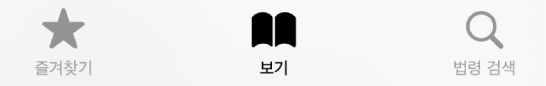
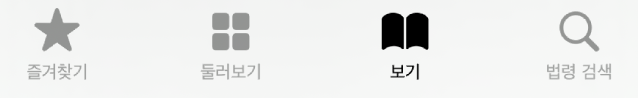
added

diff --git a/posts/beoppering-ko/index.html b/posts/beoppering-ko/index.html
@@ -8,9 +8,9 @@
 <title>법퍼링 법전 도움말 | Gourmet Series</title>
 <meta name="keywords" content="">
 <meta name="description" content="이 문서는 법퍼링 법전의 사용지원을 위한 문서입니다.
-면책 법퍼링 법전(이하 &ldquo;당해 앱&quot;이라고 합니다)은 국가법령정보센터 (https://law.go.kr) 이용의 편의를 제공하기 위해 무료로 제공되는 앱으로 내용의 오류, 또는 처리 과정에서의 오류가 있을 수 있습니다.
-당해 앱은 위 오류 등을 포함하여 법령 정보에 관한 내용 및 이 앱을 사용하며 발생하는 문제에 관하여 어떤 책임도 지지 않습니다.
-목차 사용 안내 가. 하단 탭 버튼 나. 보기 탭 다. 검색 탭 연락처 외부 라이브러리 및 라이센스 1.">
+면책 법퍼링 법전(이하 &ldquo;당해 앱&ldquo;이라고 합니다)은 국가법령정보센터 (https://law.go.kr) 이용의 편의를 제공하기 위해 무료로 제공되는 앱으로 내용의 오류, 또는 처리 과정에서의 오류가 존재할 수 있습니다.
+⚠ 당해 앱은 위 오류 등을 포함하여 법령 정보에 관한 내용 및 이 앱을 사용하며 발생하는 문제에 관하여 어떤 책임도 지지 않습니다. ⇒ 이 내용은 [즐겨찾기] 탭의 (?) 아이콘을 클릭하여 다시 볼 수 있습니다
+목차 사용 안내 가. 하단 탭 버튼 나.">
 <meta name="author" content="">
 <link rel="canonical" href="http://gourmet-series.github.io/posts/beoppering-ko/">
 <link crossorigin="anonymous" href="/assets/css/stylesheet.bccfefac377bc340f06c260aed1bddf49a4354816d7c570d6aac75a997986c95.css" integrity="sha256-vM/vrDd7w0DwbCYK7Rvd9JpDVIFtfFcNaqx1qZeYbJU=" rel="preload stylesheet" as="style">
@@ -61,9 +61,9 @@
     </style>
 </noscript><meta property="og:title" content="법퍼링 법전 도움말" />
 <meta property="og:description" content="이 문서는 법퍼링 법전의 사용지원을 위한 문서입니다.
-면책 법퍼링 법전(이하 &ldquo;당해 앱&quot;이라고 합니다)은 국가법령정보센터 (https://law.go.kr) 이용의 편의를 제공하기 위해 무료로 제공되는 앱으로 내용의 오류, 또는 처리 과정에서의 오류가 있을 수 있습니다.
-당해 앱은 위 오류 등을 포함하여 법령 정보에 관한 내용 및 이 앱을 사용하며 발생하는 문제에 관하여 어떤 책임도 지지 않습니다.
-목차 사용 안내 가. 하단 탭 버튼 나. 보기 탭 다. 검색 탭 연락처 외부 라이브러리 및 라이센스 1." />
+면책 법퍼링 법전(이하 &ldquo;당해 앱&ldquo;이라고 합니다)은 국가법령정보센터 (https://law.go.kr) 이용의 편의를 제공하기 위해 무료로 제공되는 앱으로 내용의 오류, 또는 처리 과정에서의 오류가 존재할 수 있습니다.
+⚠ 당해 앱은 위 오류 등을 포함하여 법령 정보에 관한 내용 및 이 앱을 사용하며 발생하는 문제에 관하여 어떤 책임도 지지 않습니다. ⇒ 이 내용은 [즐겨찾기] 탭의 (?) 아이콘을 클릭하여 다시 볼 수 있습니다
+목차 사용 안내 가. 하단 탭 버튼 나." />
 <meta property="og:type" content="article" />
 <meta property="og:url" content="http://gourmet-series.github.io/posts/beoppering-ko/" /><meta property="article:section" content="posts" />
 <meta property="article:published_time" content="2023-03-04T04:27:26+09:00" />
@@ -72,9 +72,9 @@
 <meta name="twitter:card" content="summary"/>
 <meta name="twitter:title" content="법퍼링 법전 도움말"/>
 <meta name="twitter:description" content="이 문서는 법퍼링 법전의 사용지원을 위한 문서입니다.
-면책 법퍼링 법전(이하 &ldquo;당해 앱&quot;이라고 합니다)은 국가법령정보센터 (https://law.go.kr) 이용의 편의를 제공하기 위해 무료로 제공되는 앱으로 내용의 오류, 또는 처리 과정에서의 오류가 있을 수 있습니다.
-당해 앱은 위 오류 등을 포함하여 법령 정보에 관한 내용 및 이 앱을 사용하며 발생하는 문제에 관하여 어떤 책임도 지지 않습니다.
-목차 사용 안내 가. 하단 탭 버튼 나. 보기 탭 다. 검색 탭 연락처 외부 라이브러리 및 라이센스 1."/>
+면책 법퍼링 법전(이하 &ldquo;당해 앱&ldquo;이라고 합니다)은 국가법령정보센터 (https://law.go.kr) 이용의 편의를 제공하기 위해 무료로 제공되는 앱으로 내용의 오류, 또는 처리 과정에서의 오류가 존재할 수 있습니다.
+⚠ 당해 앱은 위 오류 등을 포함하여 법령 정보에 관한 내용 및 이 앱을 사용하며 발생하는 문제에 관하여 어떤 책임도 지지 않습니다. ⇒ 이 내용은 [즐겨찾기] 탭의 (?) 아이콘을 클릭하여 다시 볼 수 있습니다
+목차 사용 안내 가. 하단 탭 버튼 나."/>
 
 
 <script type="application/ld+json">
@@ -103,12 +103,12 @@
   "@type": "BlogPosting",
   "headline": "법퍼링 법전 도움말",
   "name": "법퍼링 법전 도움말",
-  "description": "이 문서는 법퍼링 법전의 사용지원을 위한 문서입니다.\n면책 법퍼링 법전(이하 \u0026ldquo;당해 앱\u0026quot;이라고 합니다)은 국가법령정보센터 (https://law.go.kr) 이용의 편의를 제공하기 위해 무료로 제공되는 앱으로 내용의 오류, 또는 처리 과정에서의 오류가 있을 수 있습니다.\n당해 앱은 위 오류 등을 포함하여 법령 정보에 관한 내용 및 이 앱을 사용하며 발생하는 문제에 관하여 어떤 책임도 지지 않습니다.\n목차 사용 안내 가. 하단 탭 버튼 나. 보기 탭 다. 검색 탭 연락처 외부 라이브러리 및 라이센스 1.",
+  "description": "이 문서는 법퍼링 법전의 사용지원을 위한 문서입니다.\n면책 법퍼링 법전(이하 \u0026ldquo;당해 앱\u0026ldquo;이라고 합니다)은 국가법령정보센터 (https://law.go.kr) 이용의 편의를 제공하기 위해 무료로 제공되는 앱으로 내용의 오류, 또는 처리 과정에서의 오류가 존재할 수 있습니다.\n⚠ 당해 앱은 위 오류 등을 포함하여 법령 정보에 관한 내용 및 이 앱을 사용하며 발생하는 문제에 관하여 어떤 책임도 지지 않습니다. ⇒ 이 내용은 [즐겨찾기] 탭의 (?) 아이콘을 클릭하여 다시 볼 수 있습니다\n목차 사용 안내 가. 하단 탭 버튼 나.",
   "keywords": [
     
   ],
-  "articleBody": " 이 문서는 법퍼링 법전의 사용지원을 위한 문서입니다.\n면책 법퍼링 법전(이하 “당해 앱\"이라고 합니다)은 국가법령정보센터 (https://law.go.kr) 이용의 편의를 제공하기 위해 무료로 제공되는 앱으로 내용의 오류, 또는 처리 과정에서의 오류가 있을 수 있습니다.\n당해 앱은 위 오류 등을 포함하여 법령 정보에 관한 내용 및 이 앱을 사용하며 발생하는 문제에 관하여 어떤 책임도 지지 않습니다.\n목차 사용 안내 가. 하단 탭 버튼 나. 보기 탭 다. 검색 탭 연락처 외부 라이브러리 및 라이센스 1. 사용 안내 가. 하단 탭 버튼 당해 앱의 탭은 즐겨찾기, 보기, 법령검색으로 구성되어 있습니다. 보기 탭에서 법령을 열람할 수 있고, 법령 검색에서 법령을 검색할 수 있습니다. 즐겨찾기에서는 보기탭에서 즐겨찾기에 추가한 법령 또는 조문을 조회할 수 있습니다.\n나. 보기 탭 버튼은 법령을 새로 불러옵니다.\n상단의 즐겨찾기 버튼은 법령 전체를 즐겨찾기에 등록하고, 조문 제목 앞의 즐겨찾기 버튼은 해당 조문을 즐겨찾기에 등록합니다.\n조문의 복사하기 버튼은 해당 조문의 전체 내용을 클립보드에 복사하는 버튼입니다. 개별 항목(가령 “①”)을 더블탭할 시에는 해당 항목의 내용만이 복사됩니다.\n법령의 개정이 있는 경우에는 내용을 자동으로 불러옵니다.\n검은 바탕으로 표시된 참조조문을 탭할 시에는, 하단에 연한 회색 상자가 나타나며 해당 참조조문이 표시됩니다. 조문 내에서의 밑줄은 괄호 내의 정의조항을 알아보기 쉽게 표시한 것입니다. 다. 검색 탭 검색 탭 상단의 입력창을 통해 현행 법령을 검색할 수 있습니다\n같은 계열의 법령(가령, 난민법 - 난민법 시행령 …)은 같은 고유색깔로 표시됩니다.\n법령은 모서리가 둥근 사각형, 나머지는 원형으로 표시됩니다.\n검색 내용의 날짜는 시행일입니다.\n공식적인 약칭이 있는 경우 함께 표시됩니다.\n라. 즐겨찾기 탭 상단의 항목은 법령에 대한 즐겨찾기를, 하단의 항목은 조문에 대한 즐겨찾기를 나타냅니다. 2. 연락처 gourmet.series@icloud.com\n3. 외부라이브러리 및 라이센스 작명 도움: MIJI\nSQLite.swift Copyright [2014-2015] Stephen Celis. [🔗] (하단 Sqlite.swift 라이센스 참조)\nSwiftSoup Copyright [2016] Nabil Chatbi. [🔗] (하단 SwiftSoup 라이센스 참조)\nSqlite.swift 라이센스 (The MIT License) Copyright (c) 2014-2015 Stephen Celis () Permission is hereby granted, free of charge, to any person obtaining a copy of this software and associated documentation files (the \"Software\"), to deal in the Software without restriction, including without limitation the rights to use, copy, modify, merge, publish, distribute, sublicense, and/or sell copies of the Software, and to permit persons to whom the Software is furnished to do so, subject to the following conditions: The above copyright notice and this permission notice shall be included in all copies or substantial portions of the Software. THE SOFTWARE IS PROVIDED \"AS IS\", WITHOUT WARRANTY OF ANY KIND, EXPRESS OR IMPLIED, INCLUDING BUT NOT LIMITED TO THE WARRANTIES OF MERCHANTABILITY, FITNESS FOR A PARTICULAR PURPOSE AND NONINFRINGEMENT. IN NO EVENT SHALL THE AUTHORS OR COPYRIGHT HOLDERS BE LIABLE FOR ANY CLAIM, DAMAGES OR OTHER LIABILITY, WHETHER IN AN ACTION OF CONTRACT, TORT OR OTHERWISE, ARISING FROM, OUT OF OR IN CONNECTION WITH THE SOFTWARE OR THE USE OR OTHER DEALINGS IN THE SOFTWARE. SwiftSoup 라이센스 MIT License Copyright (c) 2016 Nabil Chatbi Permission is hereby granted, free of charge, to any person obtaining a copy of this software and associated documentation files (the \"Software\"), to deal in the Software without restriction, including without limitation the rights to use, copy, modify, merge, publish, distribute, sublicense, and/or sell copies of the Software, and to permit persons to whom the Software is furnished to do so, subject to the following conditions: The above copyright notice and this permission notice shall be included in all copies or substantial portions of the Software. THE SOFTWARE IS PROVIDED \"AS IS\", WITHOUT WARRANTY OF ANY KIND, EXPRESS OR IMPLIED, INCLUDING BUT NOT LIMITED TO THE WARRANTIES OF MERCHANTABILITY, FITNESS FOR A PARTICULAR PURPOSE AND NONINFRINGEMENT. IN NO EVENT SHALL THE AUTHORS OR COPYRIGHT HOLDERS BE LIABLE FOR ANY CLAIM, DAMAGES OR OTHER LIABILITY, WHETHER IN AN ACTION OF CONTRACT, TORT OR OTHERWISE, ARISING FROM, OUT OF OR IN CONNECTION WITH THE SOFTWARE OR THE USE OR OTHER DEALINGS IN THE SOFTWARE. ",
-  "wordCount" : "609",
+  "articleBody": " 이 문서는 법퍼링 법전의 사용지원을 위한 문서입니다.\n면책 법퍼링 법전(이하 “당해 앱“이라고 합니다)은 국가법령정보센터 (https://law.go.kr) 이용의 편의를 제공하기 위해 무료로 제공되는 앱으로 내용의 오류, 또는 처리 과정에서의 오류가 존재할 수 있습니다.\n⚠ 당해 앱은 위 오류 등을 포함하여 법령 정보에 관한 내용 및 이 앱을 사용하며 발생하는 문제에 관하여 어떤 책임도 지지 않습니다. ⇒ 이 내용은 [즐겨찾기] 탭의 (?) 아이콘을 클릭하여 다시 볼 수 있습니다\n목차 사용 안내 가. 하단 탭 버튼 나. 보기 탭 다. 법령 검색 탭 라. 즐겨찾기 탭 마. 둘러보기 탭 바. 글자 크기 키우기 연락처 외부 라이브러리 및 라이센스 1. 사용 안내 가. 하단 탭 버튼 당해 앱의 탭은 즐겨찾기, 둘러 보기, 보기, 법령 검색으로 구성되어 있습니다. 보기 탭에서는 법령 검색 등에서 찾은 법령을 열람할 수 있고, 즐겨찾기에서는 보기 탭에서 즐겨찾기에 추가한 법령 또는 조문을 조회할 수 있습니다.\n둘러보기에서는 일반적으로 많이 사용되는 법령을 빠르고 쉽게 찾을 수 있도록 제시하였습니다.\n나. 보기 탭 상단의 즐겨찾기 버튼은 법령 전체를 즐겨찾기에 등록하고, 조문 제목 앞의 즐겨찾기 버튼은 해당 조문을 즐겨찾기에 등록합니다.\n상단의 목차보기 버튼은 아래와 같이 법령의 목차(편제 등)를 보여줍니다.\n판례보기 버튼은 해당 조문과 연관된 판례를 새 창에서 보여줍니다.\n조문의 복사하기 버튼은 해당 조문의 전체 내용을 클립보드에 복사하는 버튼입니다. 한편, 개별 항목(가령 “①”)을 더블탭할 시에는 해당 항목의 내용만이 복사됩니다.\n법령의 개정이 있는 경우에는 내용을 자동으로 불러옵니다.\n법령을 강제로 새로고침하기 위해서는 (Safari에서 새로고침을 하는 것과 마찬가지로), 화면을 돌아가는 회색 원이 나올 때까지 아래로 화면을 잡아당깁니다(아래 그림 참고).\n회색 바탕으로 표시된 참조조문을 탭할 시에는, 하단에 연한 회색 상자가 나타나며 해당 참조조문이 표시됩니다.\n참조조문 상자에서 표시된 첫 번째 복사하기 버튼()은 해당 참조조문만을 복사하고, 두 번째 복사하기 버튼()은 해당 참조조문에 이르기까지 경로에 있는 모든 조문들을 복사합니다.\n조문 내에서의 밑줄은 괄호 내의 정의조항을 알아보기 쉽게 표시한 것입니다. 다. 검색 탭 검색 탭 상단의 입력창을 통해 현행 법령을 검색할 수 있습니다\n같은 계열의 법령(가령, 난민법 - 난민법 시행령 …)은 같은 고유색깔로 표시됩니다.\n법령은 모서리가 둥근 사각형, 나머지는 원형으로 표시됩니다.\n검색 내용의 날짜는 시행일입니다.\n공식적인 약칭이 있는 경우 함께 표시됩니다.\n라. 즐겨찾기 탭 상단의 항목은 법령에 대한 즐겨찾기를, 하단의 항목은 조문에 대한 즐겨찾기를 나타냅니다.\n조문 즐겨찾기를 삭제하기 위해서는 조문 앞의 책갈피 기호를 탭하면 삭제됩니다.\n법령을 잠시 누르고 있는 경우, 공유하기 및 지우기 실행 버튼이 나타납니다. 조문 항목을 잠시 누르고 있는 경우 지우기 버튼이 나타나고, 세부 내용을 볼 수 있습니다. 마. 둘러보기 탭 각종 유용한 법령을 모아둔 탭입니다. 업데이트에 따라 내용이 달라질 수 있습니다. 추가하고 싶으신 법령이 있다면 언제든지 아래 연락처로 연락주세요! 바. 글자크기 키우기 앱의 글자 크기를 키우고 싶으시다면(iOS, ipadOS 한정) 아래 설정을 진행하시면 됩니다. [1] 홈 화면으로 나가서, 설정 앱의 손쉬운 사용에 들어갑니다.\n[2] 일반 아래 앱별 설정을 찾아 들어갑니다.\n[3] 앱별 설정에서 앱 추가를 선택한 뒤, 법퍼링 법전을 선택합니다.\n[4] 법퍼링 법전 항목을 선택 후 나타나는 창에서, 더 큰 텍스트를 선택한 뒤, 아래의 슬라이드를 보기 좋은 크기로 드래그합니다(끝).\n2. 연락처 gourmet.series@icloud.com\n3. 외부라이브러리 및 라이센스 작명 도움: MIJI\nSQLite.swift Copyright [2014-2015] Stephen Celis. [🔗] (하단 Sqlite.swift 라이센스 참조)\nSwiftSoup Copyright [2016] Nabil Chatbi. [🔗] (하단 SwiftSoup 라이센스 참조)\nSqlite.swift 라이센스 (The MIT License) Copyright (c) 2014-2015 Stephen Celis () Permission is hereby granted, free of charge, to any person obtaining a copy of this software and associated documentation files (the \"Software\"), to deal in the Software without restriction, including without limitation the rights to use, copy, modify, merge, publish, distribute, sublicense, and/or sell copies of the Software, and to permit persons to whom the Software is furnished to do so, subject to the following conditions: The above copyright notice and this permission notice shall be included in all copies or substantial portions of the Software. THE SOFTWARE IS PROVIDED \"AS IS\", WITHOUT WARRANTY OF ANY KIND, EXPRESS OR IMPLIED, INCLUDING BUT NOT LIMITED TO THE WARRANTIES OF MERCHANTABILITY, FITNESS FOR A PARTICULAR PURPOSE AND NONINFRINGEMENT. IN NO EVENT SHALL THE AUTHORS OR COPYRIGHT HOLDERS BE LIABLE FOR ANY CLAIM, DAMAGES OR OTHER LIABILITY, WHETHER IN AN ACTION OF CONTRACT, TORT OR OTHERWISE, ARISING FROM, OUT OF OR IN CONNECTION WITH THE SOFTWARE OR THE USE OR OTHER DEALINGS IN THE SOFTWARE. SwiftSoup 라이센스 MIT License Copyright (c) 2016 Nabil Chatbi Permission is hereby granted, free of charge, to any person obtaining a copy of this software and associated documentation files (the \"Software\"), to deal in the Software without restriction, including without limitation the rights to use, copy, modify, merge, publish, distribute, sublicense, and/or sell copies of the Software, and to permit persons to whom the Software is furnished to do so, subject to the following conditions: The above copyright notice and this permission notice shall be included in all copies or substantial portions of the Software. THE SOFTWARE IS PROVIDED \"AS IS\", WITHOUT WARRANTY OF ANY KIND, EXPRESS OR IMPLIED, INCLUDING BUT NOT LIMITED TO THE WARRANTIES OF MERCHANTABILITY, FITNESS FOR A PARTICULAR PURPOSE AND NONINFRINGEMENT. IN NO EVENT SHALL THE AUTHORS OR COPYRIGHT HOLDERS BE LIABLE FOR ANY CLAIM, DAMAGES OR OTHER LIABILITY, WHETHER IN AN ACTION OF CONTRACT, TORT OR OTHERWISE, ARISING FROM, OUT OF OR IN CONNECTION WITH THE SOFTWARE OR THE USE OR OTHER DEALINGS IN THE SOFTWARE. ",
+  "wordCount" : "819",
   "inLanguage": "en",
   "datePublished": "2023-03-04T04:27:26+09:00",
   "dateModified": "2023-03-04T04:27:26+09:00",
@@ -184,7 +184,29 @@
 </div>
   </header> 
   <div class="post-content"><style type="text/css">
-/*   table {
+*
+{
+    font-family: sans-serif, system-ui, -apple-system, BlinkMacSystemFont;
+    font-weight: normal;
+    word-break: keep-all;
+    word-wrap: break-word;
+}
+
+html {
+    font-size: 9pt;
+    margin-left: 5%;
+    margin-right: 5%;
+}
+
+body {
+    background-color: clear !important;
+    color: black;
+    font-size: 1rem;
+    padding: 0 1rem 0 1rem;
+    line-height: 1.2rem;
+}
+
+table {
     display: table;
     border: 1px #bababa solid;
     padding: 0.3em;
@@ -209,6 +231,21 @@ td {
 tr:last-child td {
     border: 0;
 }
+
+
+img {
+    width: 100%;
+    border-radius: 1em;
+    box-shadow: 0 7px 10px 2px #bababa;
+}
+
+img.icon {
+    box-shadow: 0 0 0 0 !important;
+    width: 1.5em;
+    height: 1.5em;
+    vertical-align: middle;
+}
+
 td img {
     width: 13em;
     box-shadow: 0 0 0 0 !important;
@@ -227,31 +264,8 @@ td pre code {
     word-wrap: normal !important;
 }
 
-*/
-
-td img {
-    width: 13em;
-    box-shadow: 0 0 0 0 !important;
-}
-
-
-img {
-    width: 100%;
-    border-radius: 1em;
-    box-shadow: 0 7px 10px 2px #bababa;
-}
-
-img.icon {
-    display: inline;
-    box-shadow: 0 0 0 0 !important;
-    width: 1.5em;
-    height: 1.5em;
-    vertical-align: middle;
-}
-
-
 h1 {
-    margin-top: 3.5em;
+    margin-top: 0.5em;
 }
 
 h1, h2, h3, h4, h5 {
@@ -294,7 +308,6 @@ strong {
 
 .outline u {
     text-decoration: underline !important;
-    border-bottom: 0 !important;
     font-weight: inherit;
 }
 
@@ -325,14 +338,11 @@ b {
 b u
 {
     font-weight: bold !important;
-    border-bottom: 3px black double !important;
+    border-bottom: 3px black solid !important;
 }
 
 u {
-    text-decoration: none;
-    border-bottom: 3px #808080 double !important;
-    margin-bottom: 0.2em;
-    display: inline-block;
+    text-decoration: underline;
 }
 
 i b {
@@ -368,46 +378,68 @@ pre code {
 </style>
 <p><i>이 문서는 <a href="https://apps.apple.com/app/%EB%B2%95%ED%8D%BC%EB%A7%81-%EB%B2%95%EC%A0%84/id6445958916?platform=iphone">법퍼링 법전</a>의 사용지원을 위한 문서입니다.</i></p>
 <h2 id="h1">면책<a hidden class="anchor" aria-hidden="true" href="#h1">#</a></h2>
-<p><strong class=outline>법퍼링 법전</strong>(이하 &ldquo;당해 앱&quot;이라고 합니다)은 국가법령정보센터 (<a href="https://law.go.kr">https://law.go.kr</a>) 이용의 편의를 제공하기 위해 무료로 제공되는 앱으로 내용의 오류, 또는 처리 과정에서의 오류가 있을 수 있습니다.</p>
-<p><strong>당해 앱은 위 오류 등을 포함하여 법령 정보에 관한 내용 및 이 앱을 사용하며 발생하는 문제에 관하여 어떤 책임도 지지 않습니다.</strong></p>
+<p><strong class=outline>법퍼링 법전</strong>(이하 &ldquo;<b>당해 앱</b>&ldquo;이라고 합니다)은 국가법령정보센터 (<a href="https://law.go.kr">https://law.go.kr</a>) 이용의 편의를 제공하기 위해 무료로 제공되는 앱으로 내용의 오류, 또는 처리 과정에서의 오류가 존재할 수 있습니다.</p>
+<p style="font-weight: bolder; text-decoration: underline;"> ⚠ 당해 앱은 위 오류 등을 포함하여 법령 정보에 관한 내용 및 이 앱을 사용하며 발생하는 문제에 관하여 어떤 책임도 지지 않습니다. </p>
+<p><strong>⇒ 이 내용은 [즐겨찾기] 탭의 (?) 아이콘을 클릭하여 다시 볼 수 있습니다</strong></p>
+<hr>
 <h2 id="목차">목차<a hidden class="anchor" aria-hidden="true" href="#목차">#</a></h2>
 <ol>
 <li><a href="#h2">사용 안내</a>
-가. 하단 탭 버튼
-나. 보기 탭
-다. 검색 탭</li>
+가. <a href="#a1">하단 탭 버튼</a>
+나. <a href="#a2"><strong class=outline>보기</strong> 탭</a>
+다. <a href="#a3"><strong class=outline>법령 검색</strong> 탭</a>
+라. <a href="#a4"><strong class=outline>즐겨찾기</strong> 탭</a>
+마. <a href="#a5"><strong class=outline>둘러보기</strong> 탭</a>
+바. <a href="#a6">글자 크기 키우기</a></li>
 <li><a href="#h3">연락처</a></li>
 <li><a href="#h4">외부 라이브러리 및 라이센스</a></li>
 </ol>
+<hr>
 <h2 id="h2">1. 사용 안내<a hidden class="anchor" aria-hidden="true" href="#h2">#</a></h2>
-<h3 id="가-하단-탭-버튼">가. 하단 탭 버튼<a hidden class="anchor" aria-hidden="true" href="#가-하단-탭-버튼">#</a></h3>
+<h3 id="a1">가. 하단 탭 버튼<a hidden class="anchor" aria-hidden="true" href="#a1">#</a></h3>
 <img src="img1.png" alt="하단 탭의 스크린샷">
-<p>당해 앱의 탭은 <em>즐겨찾기</em>, <em>보기</em>, <em>법령검색</em>으로 구성되어 있습니다. 보기 탭에서 법령을 열람할 수 있고, 법령 검색에서 법령을 검색할 수 있습니다. 즐겨찾기에서는 보기탭에서 즐겨찾기에 추가한 법령 또는 조문을 조회할 수 있습니다.</p>
-<h3 id="나-보기-탭">나. 보기 탭<a hidden class="anchor" aria-hidden="true" href="#나-보기-탭">#</a></h3>
+<p>당해 앱의 탭은 <strong class=outline>즐겨찾기</strong>, <strong class=outline>둘러 보기</strong>, <strong class=outline>보기</strong>, <strong class=outline>법령 검색</strong>으로 구성되어 있습니다. <strong class=outline>보기</strong> 탭에서는 <strong class=outline>법령 검색</strong> 등에서 찾은 법령을 열람할 수 있고, <strong class=outline>즐겨찾기</strong>에서는 <strong class=outline>보기</strong> 탭에서 <strong class=outline>즐겨찾기</strong>에 추가한 법령 또는 조문을 조회할 수 있습니다.</p>
+<p><strong class=outline>둘러보기</strong>에서는 일반적으로 많이 사용되는 법령을 빠르고 쉽게 찾을 수 있도록 제시하였습니다.</p>
+<h3 id="a2">나. 보기 탭<a hidden class="anchor" aria-hidden="true" href="#a2">#</a></h3>
 <img src="img2.png" alt="보기의 스크린샷">
 <ul>
 <li>
-<p><img src="img3.png" class=icon alt="새로고침 버튼"> 버튼은 법령을 새로 불러옵니다.</p>
+<p><img src="img4.png" class=icon alt="즐겨찾기 버튼"> 상단의 즐겨찾기 버튼은 법령 전체를 <strong class=outline>즐겨찾기</strong>에 등록하고, 조문 제목 앞의 즐겨찾기 버튼은 해당 조문을 <strong class=outline>즐겨찾기</strong>에 등록합니다.</p>
 </li>
 <li>
-<p><img src="img4.png" class=icon alt="즐겨찾기 버튼"> 상단의 즐겨찾기 버튼은 법령 전체를 즐겨찾기에 등록하고, 조문 제목 앞의 즐겨찾기 버튼은 해당 조문을 즐겨찾기에 등록합니다.</p>
+<p><img src="img4.1.png" class=icon alt="목차보기 버튼"> 상단의 목차보기 버튼은 아래와 같이 법령의 목차(편제 등)를 보여줍니다.</p>
+</li>
+</ul>
+<img src="img4.2.png" alt="목차보기 창">
+<ul>
+<li>
+<p><img src="img5.3.png" class=icon alt="판례보기 버튼"> 판례보기 버튼은 해당 조문과 연관된 판례를 새 창에서 보여줍니다.</p>
 </li>
 <li>
-<p><img src="img5.png" class=icon alt="복사하기 버튼"> 조문의 복사하기 버튼은 해당 조문의 전체 내용을 클립보드에 복사하는 버튼입니다. <u>개별 항목(가령 &ldquo;①&rdquo;)을 더블탭</u>할 시에는 해당 항목의 내용만이 복사됩니다.</p>
+<p><img src="img5.png" class=icon alt="복사하기 버튼"> 조문의 복사하기 버튼은 해당 조문의 전체 내용을 클립보드에 복사하는 버튼입니다. 한편, <u>개별 항목(가령 &ldquo;①&rdquo;)을 더블탭</u>할 시에는 해당 항목의 내용만이 복사됩니다.</p>
 </li>
 <li>
 <p>법령의 개정이 있는 경우에는 내용을 자동으로 불러옵니다.</p>
 </li>
+<li>
+<p>법령을 <b>강제로</b> 새로고침하기 위해서는 (Safari에서 새로고침을 하는 것과 마찬가지로), 화면을 돌아가는 회색 원이 나올 때까지 아래로 화면을 잡아당깁니다(아래 그림 참고).</p>
+</li>
 </ul>
+<img src="img2.1.png" alt="새로고침 방법">
 <img src="img8.png" alt="조문 보기의 스크린샷">
 <ul>
-<li>검은 바탕으로 표시된 참조조문을 탭할 시에는, 하단에 연한 회색 상자가 나타나며 해당 참조조문이 표시됩니다.</li>
+<li>
+<p>회색 바탕으로 표시된 참조조문을 탭할 시에는, 하단에 연한 회색 상자가 나타나며 해당 참조조문이 표시됩니다.</p>
+</li>
+<li>
+<p>참조조문 상자에서 표시된 첫 번째 복사하기 버튼(<img src="img5.1.png" class=icon alt="복사하기 버튼">)은 해당 참조조문만을 복사하고, 두 번째 복사하기 버튼(<img src="img5.2.png" class=icon alt="복사하기 버튼">)은 <u>해당 참조조문에 이르기까지 경로에 있는 모든 조문들을 복사합니다</u>.</p>
+</li>
 </ul>
 <img src="img9.png" alt="밑줄의 정체">
 <ul>
 <li>조문 내에서의 밑줄은 괄호 내의 정의조항을 알아보기 쉽게 표시한 것입니다.</li>
 </ul>
-<h3 id="다-검색-탭">다. 검색 탭<a hidden class="anchor" aria-hidden="true" href="#다-검색-탭">#</a></h3>
+<h3 id="a3">다. 검색 탭<a hidden class="anchor" aria-hidden="true" href="#a3">#</a></h3>
 <img src="img7.png" alt="검색의 스크린샷">
 <ul>
 <li>
@@ -426,11 +458,44 @@ pre code {
 <p>공식적인 약칭이 있는 경우 함께 표시됩니다.</p>
 </li>
 </ul>
-<h3 id="라-즐겨찾기-탭">라. 즐겨찾기 탭<a hidden class="anchor" aria-hidden="true" href="#라-즐겨찾기-탭">#</a></h3>
+<h3 id="a4">라. 즐겨찾기 탭<a hidden class="anchor" aria-hidden="true" href="#a4">#</a></h3>
 <img src="img10.png" alt="즐겨찾기">
 <ul>
-<li>상단의 항목은 법령에 대한 즐겨찾기를, 하단의 항목은 조문에 대한 즐겨찾기를 나타냅니다.</li>
+<li>
+<p>상단의 항목은 법령에 대한 즐겨찾기를, 하단의 항목은 조문에 대한 즐겨찾기를 나타냅니다.</p>
+</li>
+<li>
+<p>조문 즐겨찾기를 삭제하기 위해서는 조문 앞의 책갈피 기호를 탭하면 삭제됩니다.</p>
+</li>
 </ul>
+<img src="img10.1.png" alt="법령 오래 눌렀을 때">
+<ul>
+<li>법령을 잠시 누르고 있는 경우, 공유하기 및 지우기 실행 버튼이 나타납니다.</li>
+</ul>
+<img src="img10.2.png" alt="조문 오래 눌렀을 때">
+<ul>
+<li>조문 항목을 잠시 누르고 있는 경우 지우기 버튼이 나타나고, 세부 내용을 볼 수 있습니다.</li>
+</ul>
+<h3 id="a5">마. 둘러보기 탭<a hidden class="anchor" aria-hidden="true" href="#a5">#</a></h3>
+<img src="img11.png" alt="둘러보기 탭">
+<ul>
+<li>각종 유용한 법령을 모아둔 탭입니다. 업데이트에 따라 내용이 달라질 수 있습니다. 추가하고 싶으신 법령이 있다면 언제든지 아래 연락처로 연락주세요!</li>
+</ul>
+<h3 id="a6">바. 글자크기 키우기<a hidden class="anchor" aria-hidden="true" href="#a6">#</a></h3>
+<ul>
+<li>앱의 글자 크기를 키우고 싶으시다면(iOS, ipadOS 한정) 아래 설정을 진행하시면 됩니다.</li>
+</ul>
+<p>[1] 홈 화면으로 나가서, <strong class='outline'>설정</strong> 앱의 <strong class='outline'>손쉬운 사용</strong>에 들어갑니다.</p>
+<img src="img12.0.png" alt="설정 앱의 손쉬운 사용 항목 선택">
+<p>[2] <strong class='outline'>일반</strong> 아래 <strong class='outline'>앱별 설정</strong>을 찾아 들어갑니다.</p>
+<img src="img12.1.png" alt="앱별 설정 선택">
+<p>[3] <strong class='outline'>앱별 설정</strong>에서 <strong class='outline'>앱 추가</strong>를 선택한 뒤, <strong>법퍼링 법전</strong>을 선택합니다.</p>
+<img src="img12.2.png" alt="앱 추가 선택">
+<img src="img12.3.png" alt="법퍼링 법전 검색">
+<img src="img12.4.png" alt="선택 완료 화면">
+<p>[4] <strong>법퍼링 법전</strong> 항목을 선택 후 나타나는 창에서, <strong class='outline'>더 큰 텍스트</strong>를 선택한 뒤, 아래의 슬라이드를 보기 좋은 크기로 드래그합니다(끝).</p>
+<img src="img12.5.png" alt="더 큰 텍스트">
+<img src="img12.6.png" alt="크기 조정 슬라이드">
 <h2 id="h3">2. 연락처<a hidden class="anchor" aria-hidden="true" href="#h3">#</a></h2>
 <p><a href="mailto:gourmet.series@icloud.com"><a href="mailto:gourmet.series@icloud.com">gourmet.series@icloud.com</a></a></p>
 <h2 id="h4">3. 외부라이브러리 및 라이센스<a hidden class="anchor" aria-hidden="true" href="#h4">#</a></h2>

diff --git a/index.html b/index.html
@@ -142,6 +142,21 @@ The developer has not embedded any third-party advertisements in the program, so
 
 <article class="post-entry"> 
   <header class="entry-header">
+    <h2>법퍼링 법전 도움말
+    </h2>
+  </header>
+  <div class="entry-content">
+    <p>이 문서는 법퍼링 법전의 사용지원을 위한 문서입니다.
+면책 법퍼링 법전(이하 “당해 앱“이라고 합니다)은 국가법령정보센터 (https://law.go.kr) 이용의 편의를 제공하기 위해 무료로 제공되는 앱으로 내용의 오류, 또는 처리 과정에서의 오류가 존재할 수 있습니다.
+⚠ 당해 앱은 위 오류 등을 포함하여 법령 정보에 관한 내용 및 이 앱을 사용하며 발생하는 문제에 관하여 어떤 책임도 지지 않습니다. ⇒ 이 내용은 [즐겨찾기] 탭의 (?) 아이콘을 클릭하여 다시 볼 수 있습니다
+목차 사용 안내 가. 하단 탭 버튼 나....</p>
+  </div>
+  <footer class="entry-footer"><span title='2023-03-04 04:27:26 +0900 KST'>March 4, 2023</span></footer>
+  <a class="entry-link" aria-label="post link to 법퍼링 법전 도움말" href="http://gourmet-series.github.io/posts/beoppering-ko/"></a>
+</article>
+
+<article class="post-entry"> 
+  <header class="entry-header">
     <h2>Gourmet Tree App Privacy Policy (개인정보 취급방침)
     </h2>
   </header>

diff --git a/posts/index.html b/posts/index.html
@@ -148,6 +148,21 @@ The developer has not embedded any third-party advertisements in the program, so
 
 <article class="post-entry"> 
   <header class="entry-header">
+    <h2>법퍼링 법전 도움말
+    </h2>
+  </header>
+  <div class="entry-content">
+    <p>이 문서는 법퍼링 법전의 사용지원을 위한 문서입니다.
+면책 법퍼링 법전(이하 “당해 앱“이라고 합니다)은 국가법령정보센터 (https://law.go.kr) 이용의 편의를 제공하기 위해 무료로 제공되는 앱으로 내용의 오류, 또는 처리 과정에서의 오류가 존재할 수 있습니다.
+⚠ 당해 앱은 위 오류 등을 포함하여 법령 정보에 관한 내용 및 이 앱을 사용하며 발생하는 문제에 관하여 어떤 책임도 지지 않습니다. ⇒ 이 내용은 [즐겨찾기] 탭의 (?) 아이콘을 클릭하여 다시 볼 수 있습니다
+목차 사용 안내 가. 하단 탭 버튼 나....</p>
+  </div>
+  <footer class="entry-footer"><span title='2023-03-04 04:27:26 +0900 KST'>March 4, 2023</span></footer>
+  <a class="entry-link" aria-label="post link to 법퍼링 법전 도움말" href="http://gourmet-series.github.io/posts/beoppering-ko/"></a>
+</article>
+
+<article class="post-entry"> 
+  <header class="entry-header">
     <h2>Gourmet Tree App Privacy Policy (개인정보 취급방침)
     </h2>
   </header>
